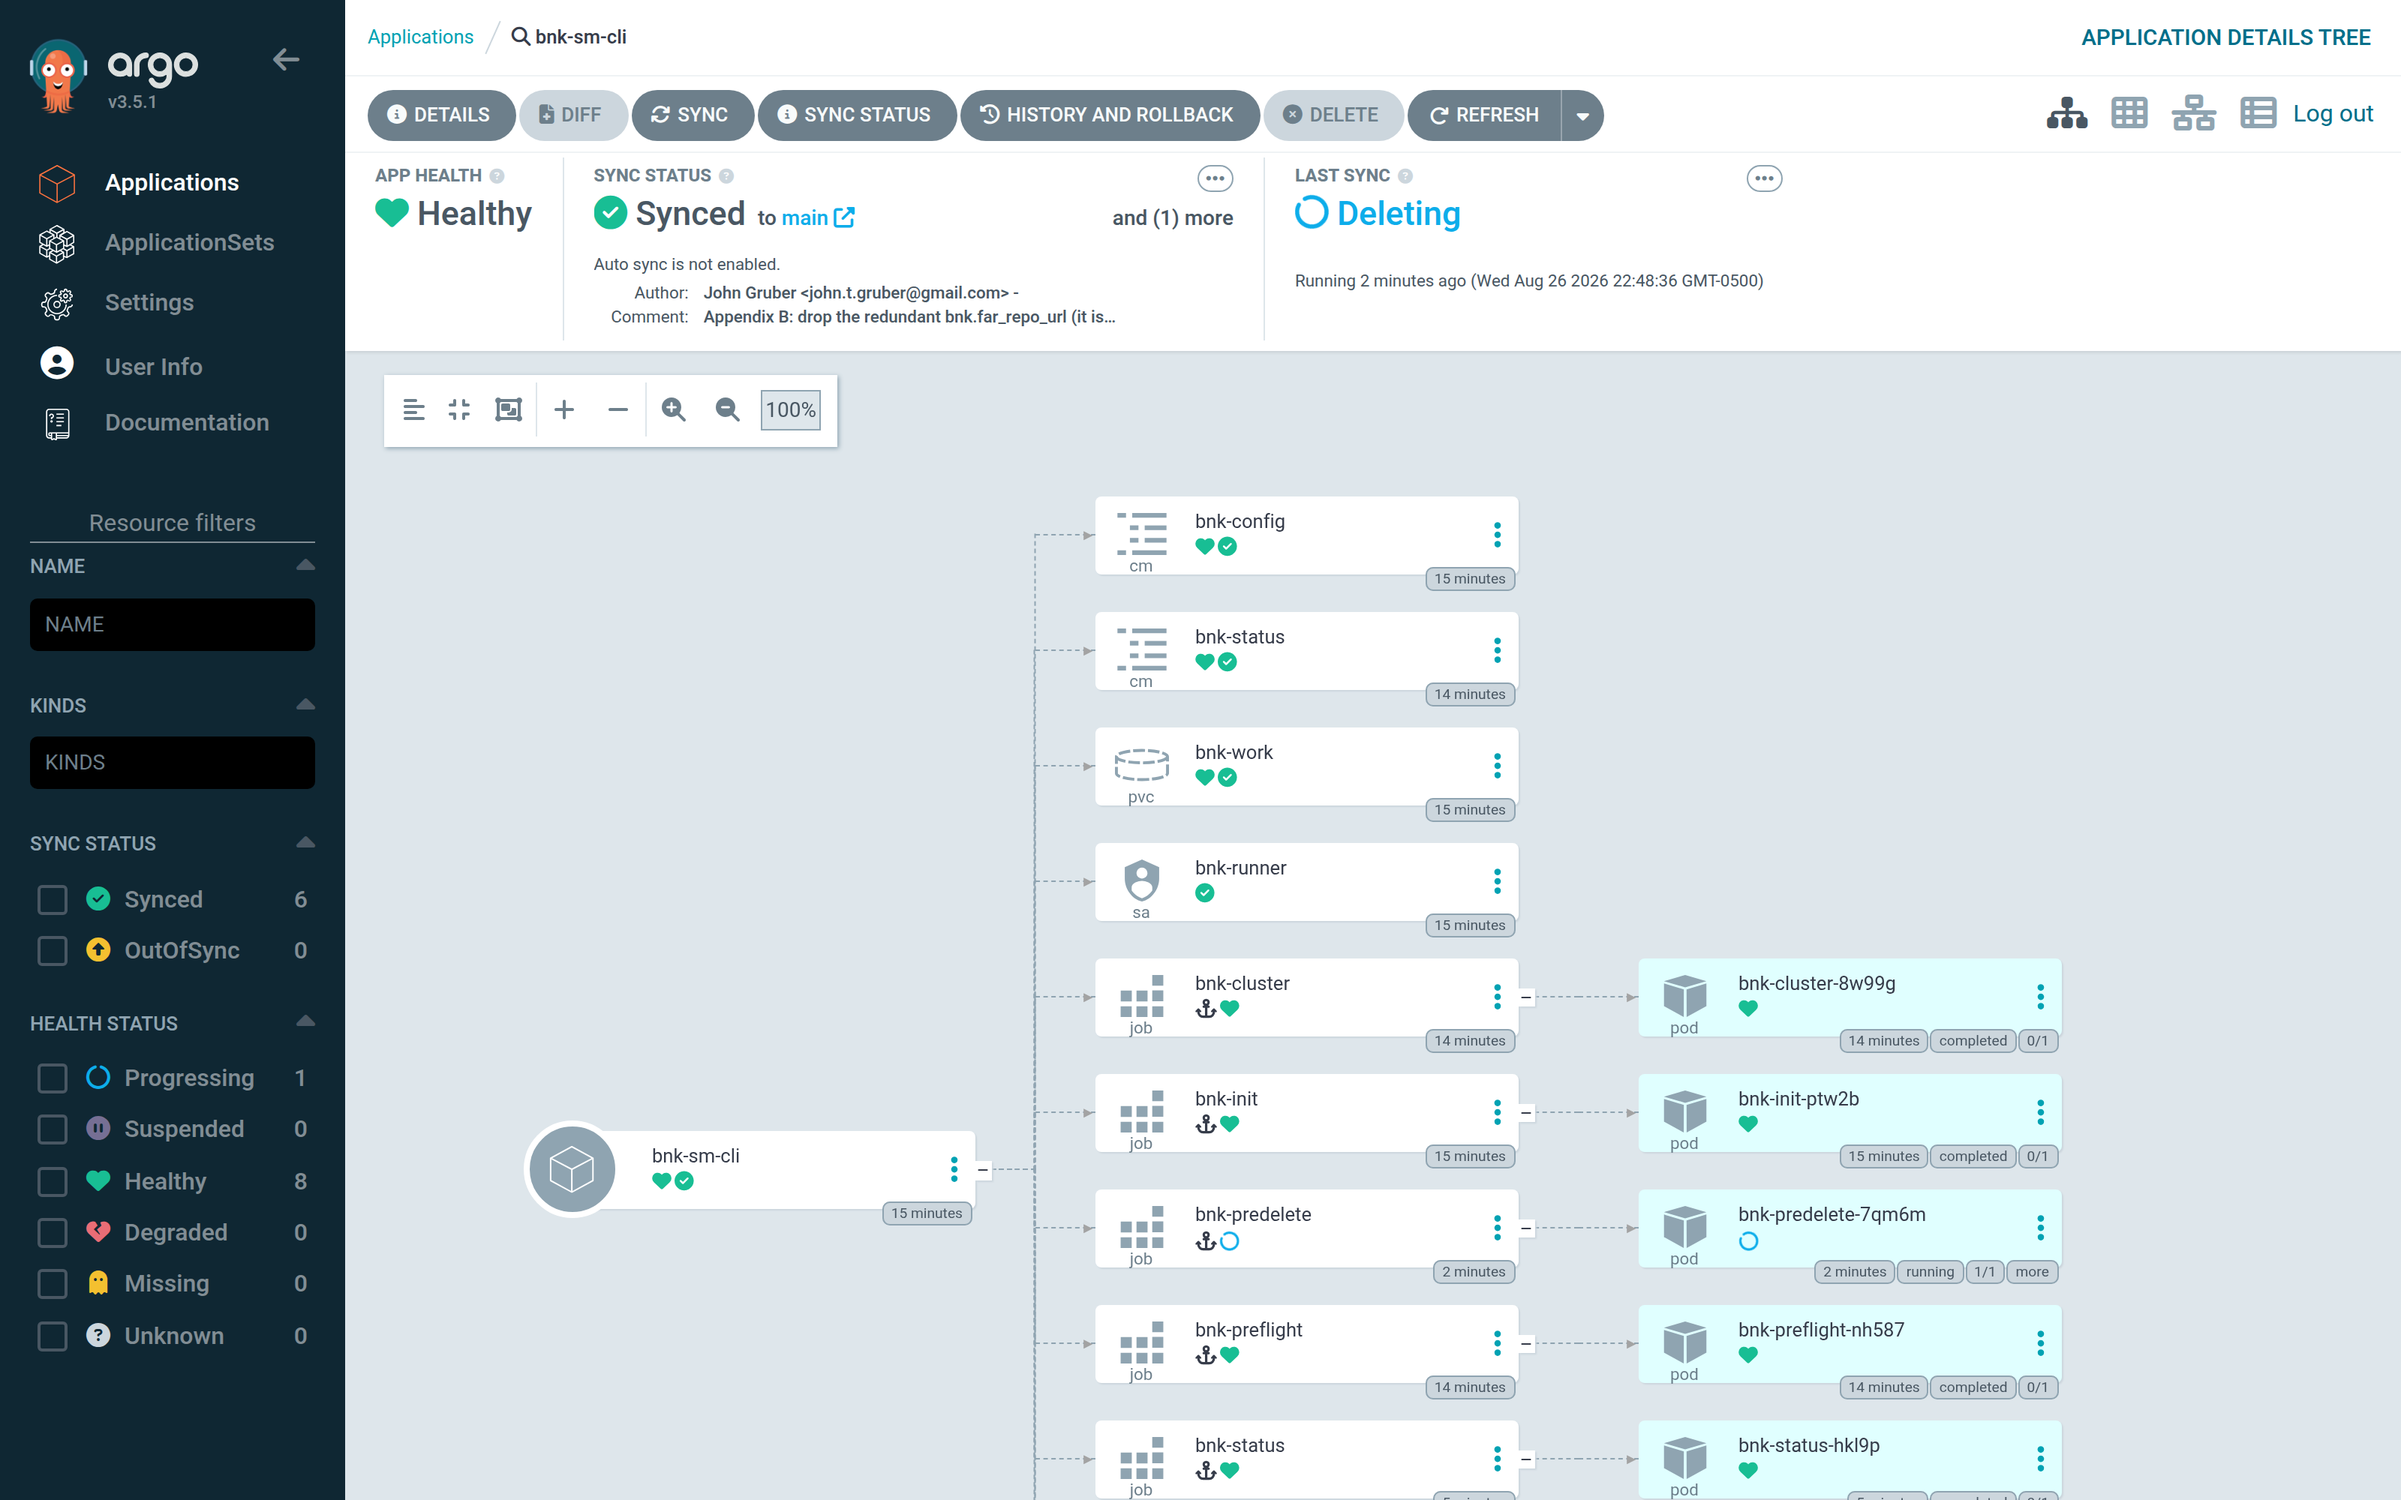
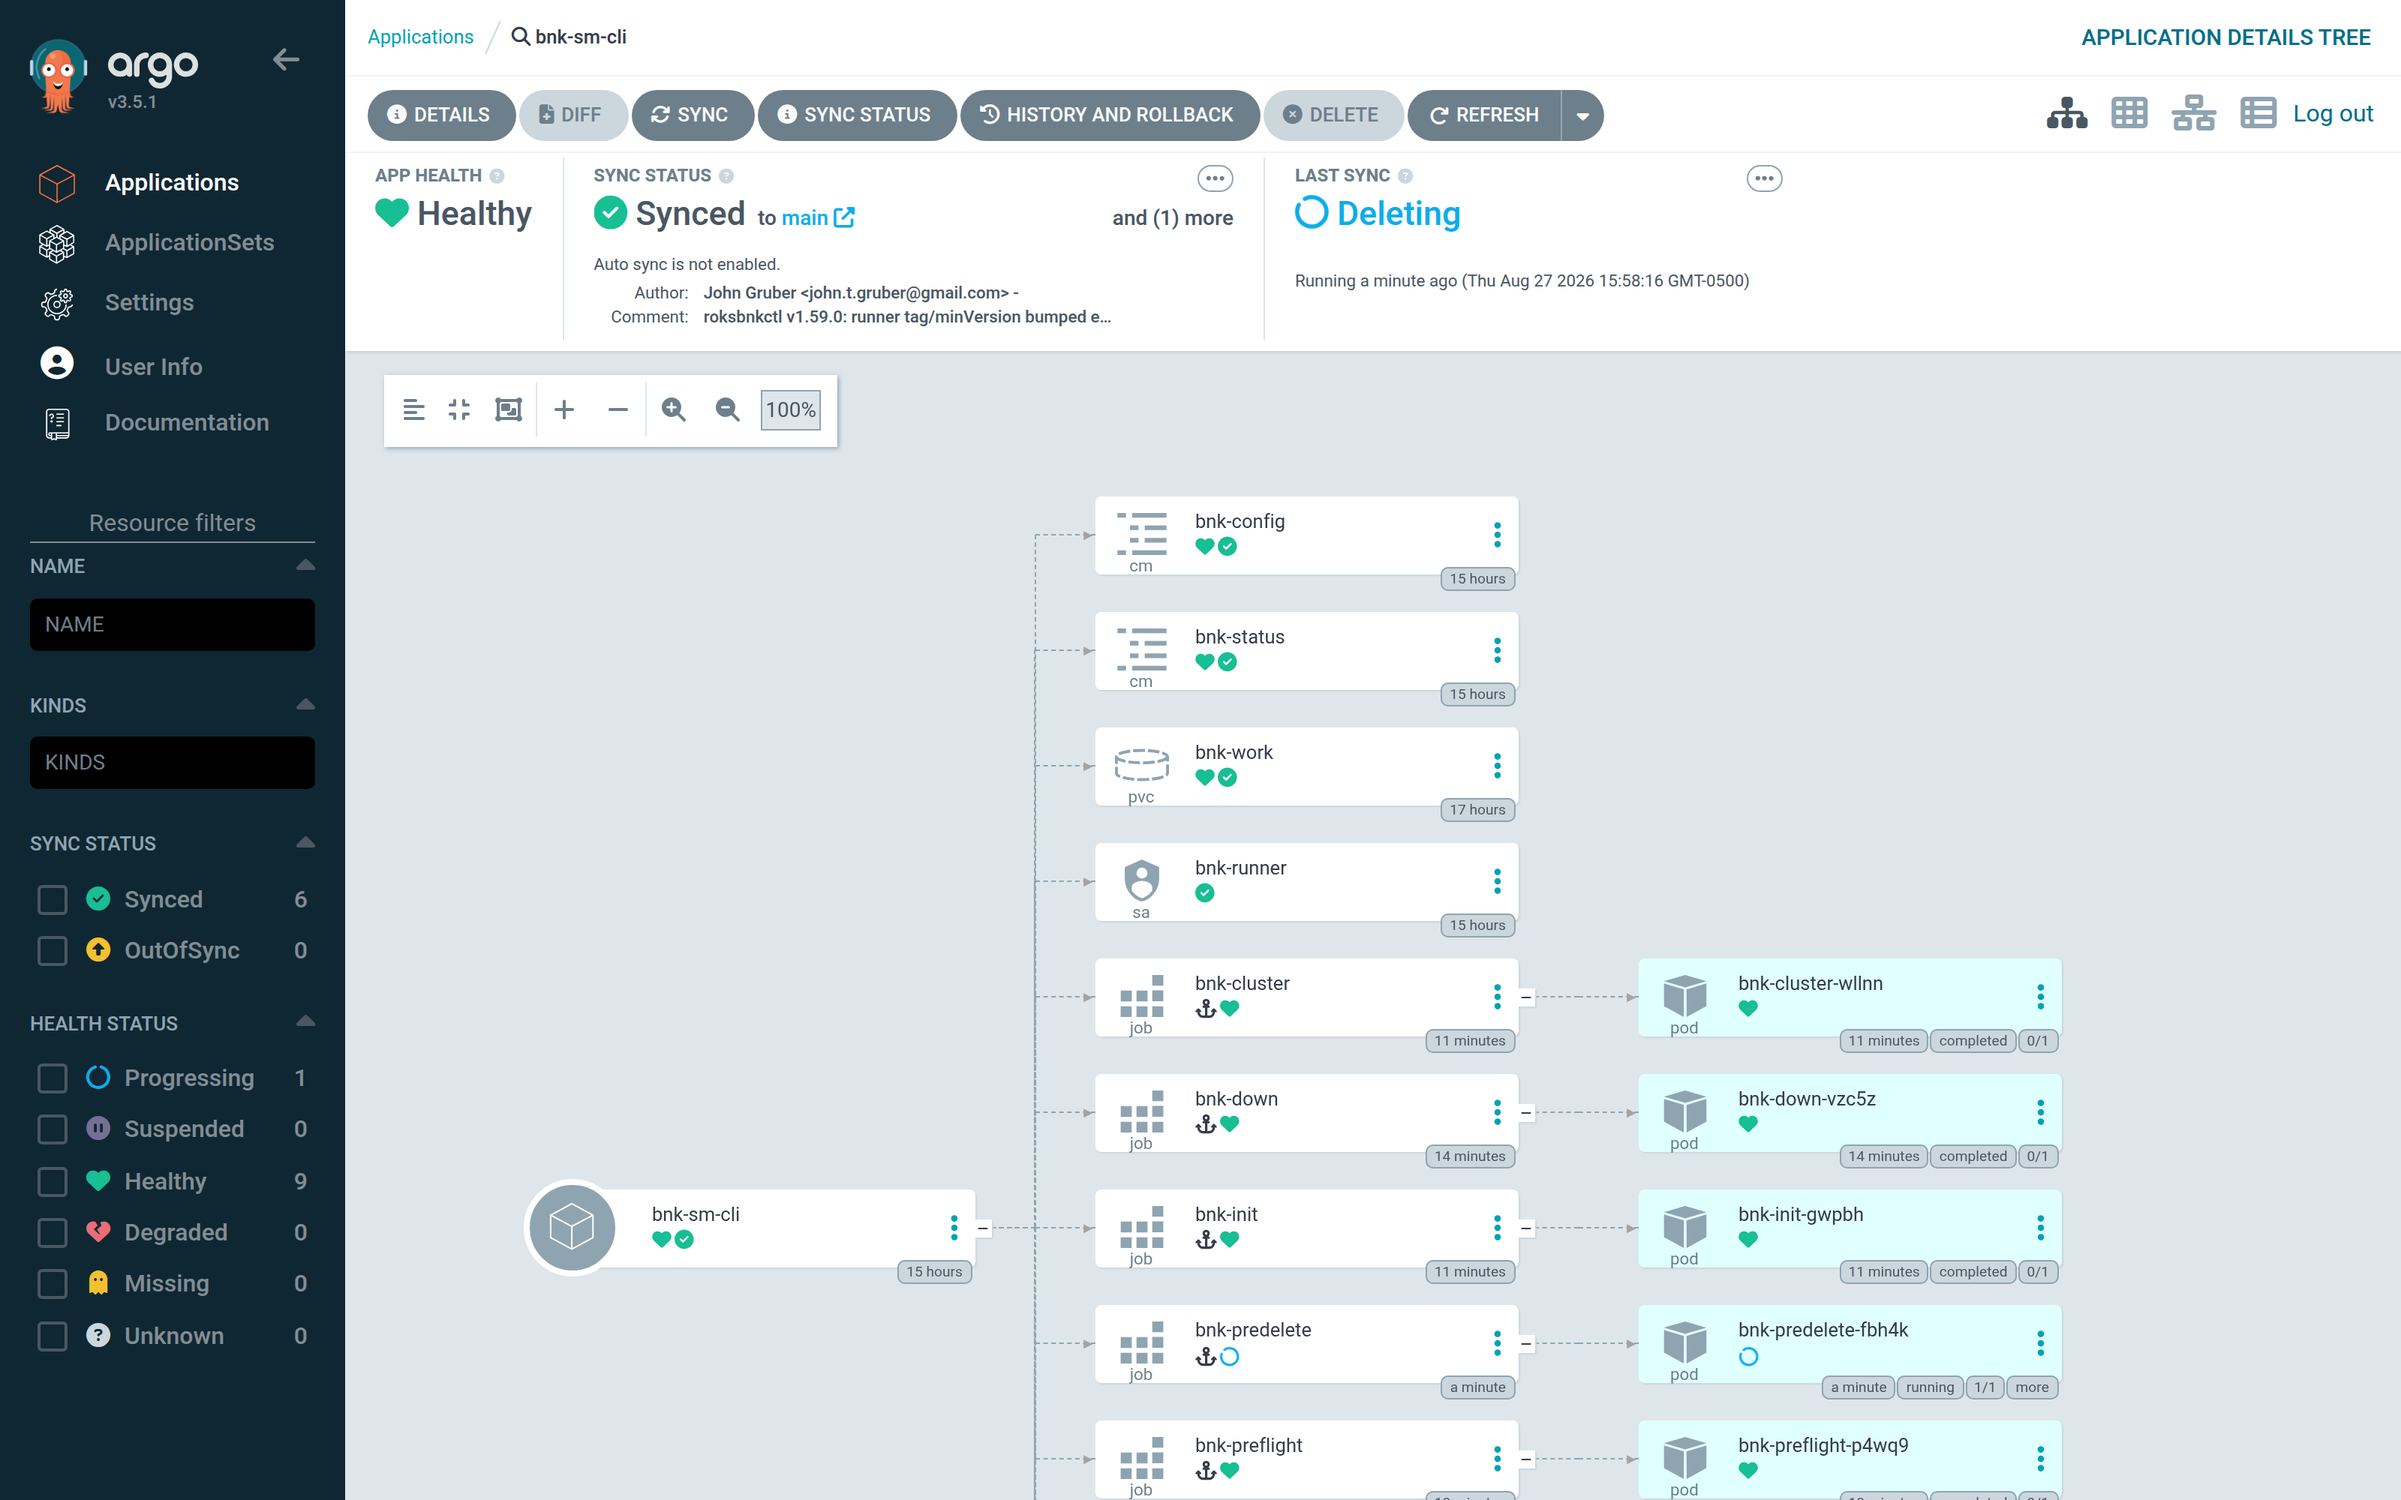
Chapter 10: delete-path excerpt and screenshots from the v1.59.0 run (three-minute PreDelete)
Claude-Session: https://claude.ai/code/session_013dz6ug5kXKb94iL9fYSWhs

diff --git a/book/src/10-uninstall.md b/book/src/10-uninstall.md
@@ -114,7 +114,7 @@ Because the Application carries the `resources-finalizer.argocd.argoproj.io`
 finalizer and the chart renders a `PreDelete` hook, clicking **OK** does not
 remove anything yet. Argo CD marks the Application for deletion and creates
 `bnk-predelete`, which runs `bnk down --auto`. The Application stays visible —
-*Deleting* — for as long as the destroy takes:
+*Deleting* — for as long as the destroy takes, about three minutes:
 
 ![The Application right after OK: deletion requested, PreDelete hook starting](images/delete-deleting.png)
 
@@ -128,18 +128,15 @@ job/bnk-predelete` — before it is gone.
 ![bnk-predelete logs while the destroy is running](images/logs-bnk-predelete-running.png)
 
 ```text
-Plan: 0 to add, 0 to change, 36 to destroy.
-module.cne_instance.module.cneinstance.null_resource.validation_webhook_ready[0]: Destruction complete after 1s
-module.license.module.license.null_resource.cneinstance_available_24[0]: Destruction complete after 1s
-module.license.module.license.null_resource.license_active[0]: Destruction complete after 1s
-module.testing.null_resource.roks_cluster_gate: Destruction complete after 1s
-module.cne_instance.module.cneinstance.kubectl_manifest.cneinstance_scc_policies["f5-bnk/flo-f5-lifecycle-operator"]: Destruction complete after 0s
+  Removed 1 admission webhook(s) served from f5-bnk so its deletion can complete.
+  Drained 1 BNK custom resource(s) from f5-bnk while FLO could still finalize them.
+→ terraform destroy
 …
-Error: context deadline exceeded
-  ⚠ namespace "f5-bnk" was stuck Terminating; cleared F5 finalizers on 2 object(s) and it drained.
-→ terraform destroy (retry, after freeing the stuck namespace)
-Plan: 0 to add, 0 to change, 5 to destroy.
-Destroy complete! Resources: 5 destroyed.
+Plan: 0 to add, 0 to change, 36 to destroy.
+module.flo.module.flo.helm_release.flo[0]: Destruction complete after 2s
+module.flo.module.flo.kubernetes_namespace_v1.flo[0]: Destruction complete after 43s
+module.cert_manager.module.cert_manager.helm_release.cert_manager[0]: Destruction complete after 9s
+Destroy complete! Resources: 36 destroyed.
 ✓ BNK phase destroyed. Cluster phase /work/.roksbnkctl/sm-cli/state-cluster/ is intact.
 ```
 
